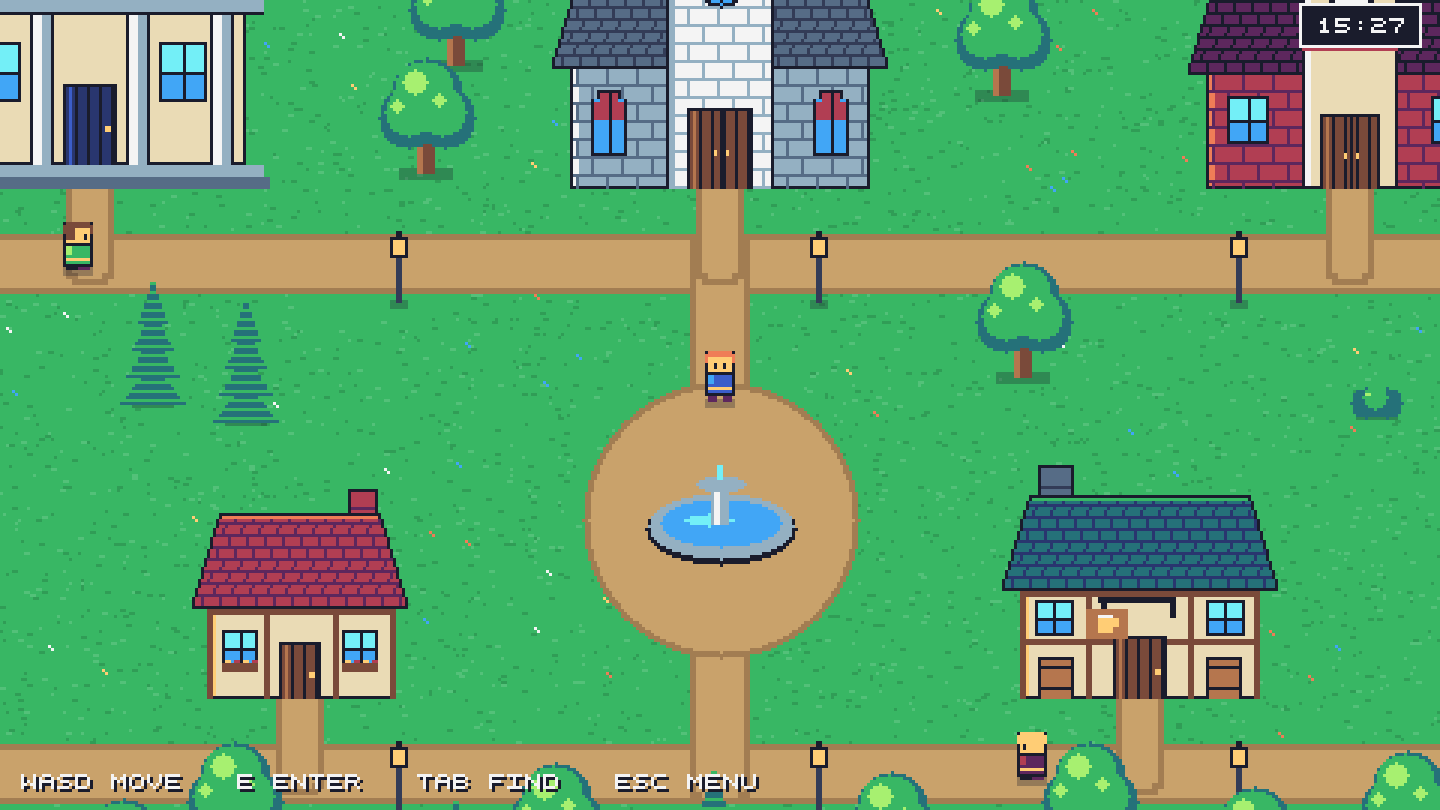
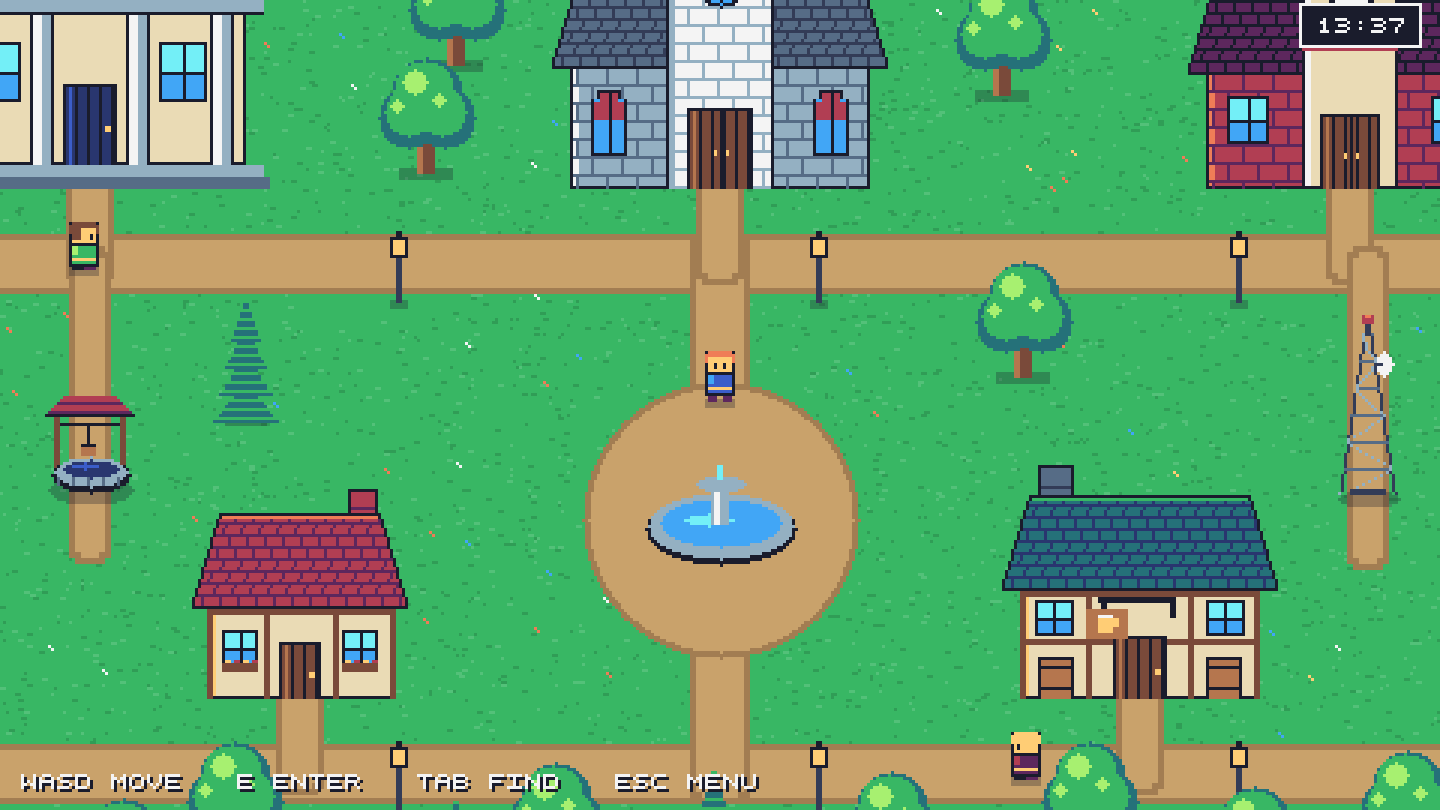
Pixelburg: rooms with desks, the well and tower, and Hyprland

Changed region(s): [[0.0312, 0.2778, 0.125, 0.7099], [0.9062, 0.3086, 0.9688, 0.7099], [0.6875, 0.8951, 0.75, 0.9568]]

diff --git a/assets/js/data.js b/assets/js/data.js
@@ -106,18 +106,17 @@ const CV = {
       details:["AS-IS and TO-BE process analysis, 6 pain points traced to 25 requirements and 12 user stories","5 custom objects, 7 record-triggered Flows (including scheduled reminders) and 7 validation rules","Private sharing with Flow-created shares, 3 permission sets and a custom permission","Two Lightning Web Components on Lightning Data Service and GraphQL, no Apex: Mission Control and the Command Centre","Reports and a dynamic HR dashboard; tabbed record pages with Dynamic Forms, a Path and one-click quick actions","All metadata in the repo with CI validation; roadmap: Agentforce agent (v2) and Claude features (v3)"] },
     { name:"Pixelburg", category:"Software", repo:"DiogoS7/Pixelburg",
       url:"https://github.com/DiogoS7/Pixelburg",
-      desc:"A Linux desktop you walk around. Your character enters a church to open the browser, a library for files or a tavern for music, and smoke from the chimney shows which apps are still running.",
+      desc:"A Linux desktop you walk around. Enter the church to open the browser or the library for your files, and every open window gets a desk inside. The well sets the volume and the signal tower joins Wi-Fi.",
       skills:["Testing & QA","Automated testing & CI","Git & GitHub"],
       context:"Personal project · Godot · 2026",
       shots:[
-        {src:"assets/img/shots/pixelburg-demo.gif", caption:"Pixelburg: walk through the town and enter a building to open its app"},
-        {src:"assets/img/shots/pixelburg-day.webp", caption:"The town at midday: five buildings open the browser, files, settings, terminal and music"},
-        {src:"assets/img/shots/pixelburg-night.webp", caption:"The town at night: the day and night cycle follows your real clock"},
-        {src:"assets/img/shots/pixelburg-workspaces.gif", caption:"Each building owns a Sway workspace, so leaving keeps the app running and returning brings back the same window"},
-        {src:"assets/img/shots/pixelburg-fast-travel.gif", caption:"Fast travel: type a few letters and press Enter to open an app without walking there"},
-        {src:"assets/img/shots/pixelburg-mail.gif", caption:"Notifications arrive as letters, delivered by a mail carrier"}
+        {src:"assets/img/shots/pixelburg-demo.gif?v=20261102", caption:"Pixelburg: walk into the church, open a second window at the free desk, then turn the volume up at the well"},
+        {src:"assets/img/shots/pixelburg-day.webp?v=20261102", caption:"The town at midday: five buildings for your apps, the well on the left and the signal tower on the right"},
+        {src:"assets/img/shots/pixelburg-night.webp?v=20261102", caption:"The town at night: the day and night cycle follows your real clock"},
+        {src:"assets/img/shots/pixelburg-desks.gif", caption:"Inside the church on real Sway: one desk per Firefox window, where E switches to it and Q closes it"},
+        {src:"assets/img/shots/pixelburg-controls.gif", caption:"The well sets the volume and the signal tower joins a Wi-Fi network"}
       ],
-      details:["Runs as a fullscreen Godot app inside Sway, which handles the windows while the game decides what to launch","The town is generated from a JSON file: add a building and it appears with a road to its door","Status bar for battery, volume and Wi-Fi, plus a system menu in the game","No asset files: every sprite and the font are painted by code, and the GIFs come from a built-in encoder","115 automated checks on GitHub Actions, including a real Sway desktop with Firefox in a container","Tested in that container but not yet on physical hardware"] },
+      details:["Runs as a fullscreen Godot app on Sway or Hyprland, which manage the windows while the game decides what to show and launch","Every building owns a workspace, and its room has a desk for each of its open windows","Volume through wpctl and Wi-Fi through nmcli, with passwords typed in the game and passed through a private file","The town and its rooms come from a JSON file: add a building and it appears with a road to its door","No asset files: every sprite and the font are painted by code, and the GIFs come from a built-in encoder","186 automated checks on GitHub Actions, including real Sway and Hyprland desktops with Firefox in containers","Tested in those containers but not yet on physical hardware"] },
     { name:"Django CRM", category:"Web", repo:"DiogoS7/Django-CRM",
       url:"https://github.com/DiogoS7/Django-CRM",
       desc:"Customer relationship manager in Django. Tracks customers through a sales pipeline and logs every call, email and meeting.",

diff --git a/index.html b/index.html
@@ -106,7 +106,7 @@
   </div>
 </div>
 <footer><div class="wrap">© 2026 Diogo Santos · Business analyst &amp; consultant · Lisbon, Portugal</div></footer>
-<script src="assets/js/data.js?v=20261101-5"></script>
+<script src="assets/js/data.js?v=20261102-1"></script>
 <script src="assets/js/app.js?v=20261101-5"></script>
 </body>
 </html>
